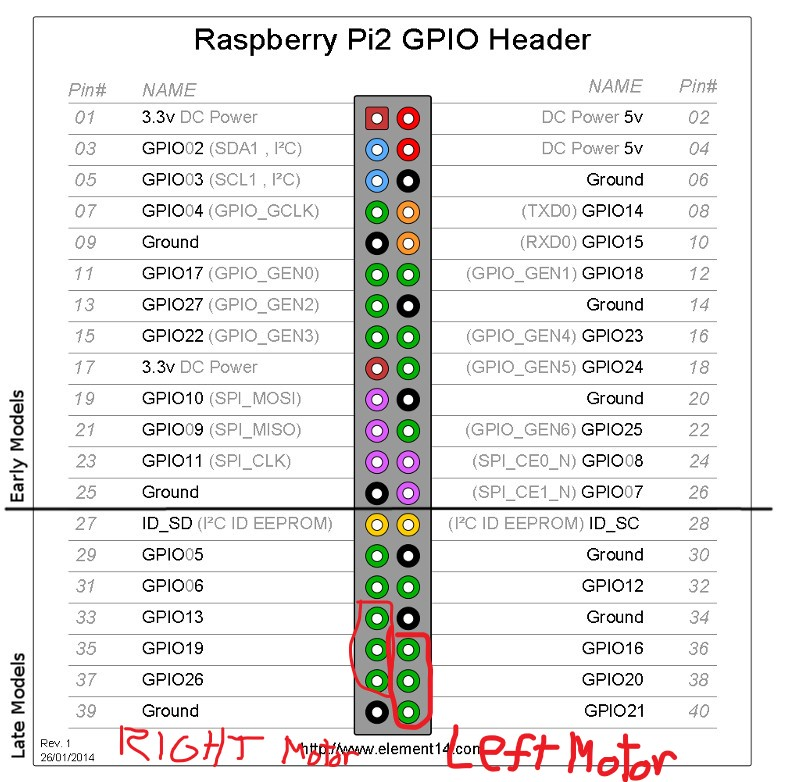
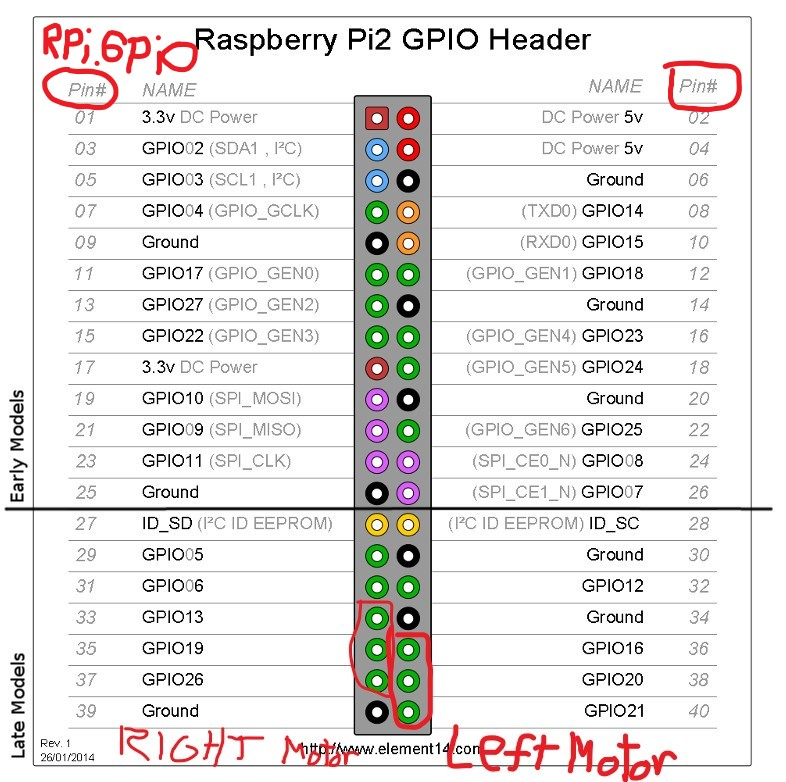
updating gpio pins
updating gpio pins

Changed region(s): [[0.0305, 0.0307, 0.2748, 0.1535], [0.8244, 0.0614, 0.9466, 0.1535]]

diff --git a/RPi_tankbot/local/movement.py b/RPi_tankbot/local/movement.py
@@ -13,14 +13,14 @@ class Movement():
 
         GPIO.setmode(GPIO.BOARD)
         # Motor1 is the right motor
-        self.Motor1A = 13
-        self.Motor1B = 19
-        self.Motor1E = 26
+        self.Motor1A = 33
+        self.Motor1B = 35
+        self.Motor1E = 37
 
         # Motor2 is the left motor
-        self.Motor2A = 16
-        self.Motor2B = 20
-        self.Motor2E = 21
+        self.Motor2A = 36
+        self.Motor2B = 38
+        self.Motor2E = 40
 
         GPIO.setup(self.Motor1A,GPIO.OUT)
         GPIO.setup(self.Motor1B,GPIO.OUT)
